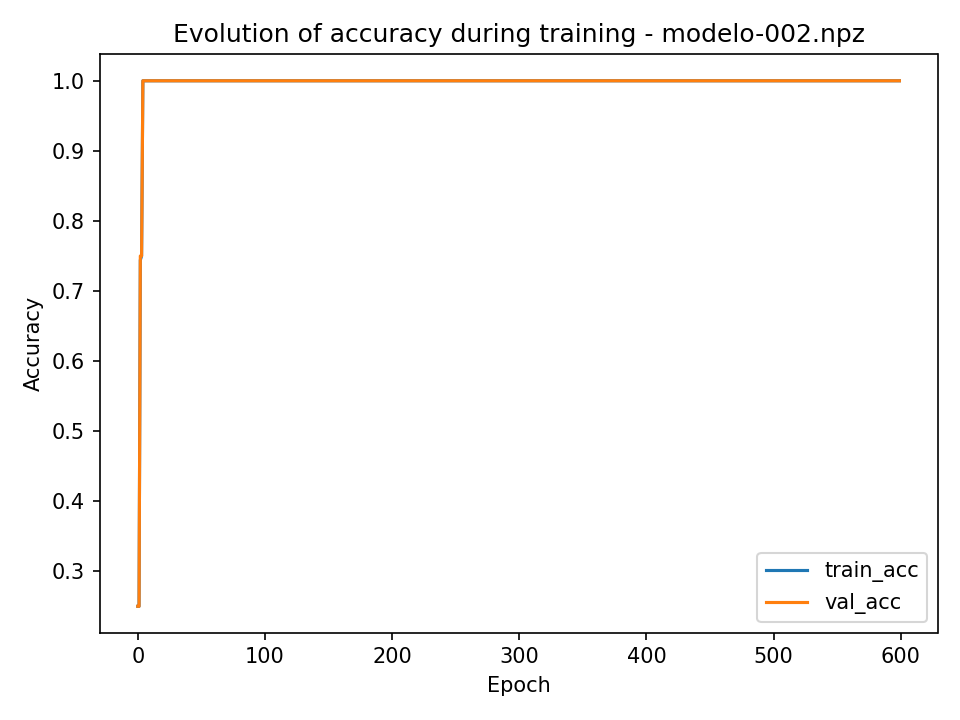
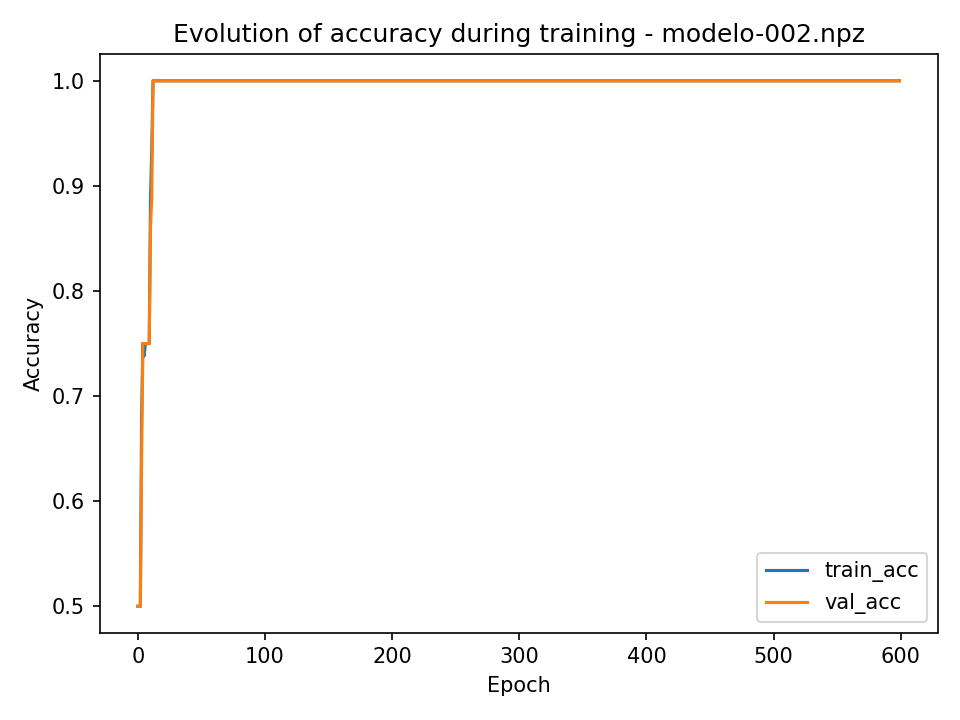
new activity

diff --git a/Actividades/Actividad6/Actividad2_practica3.py b/Actividades/Actividad6/Actividad2_practica3.py
@@ -158,7 +158,7 @@ def cross_entropy_loss(probs, y_true):
     selected = probs[np.arange(n), y_true]
     # Calcula el logaritmo de esas probabilidades y promedia el resultado.
     # Se suma un valor muy pequeño (1e-9) para evitar calcular log(0), que es infinito.
-    return np.mean(np.log(selected + 1e-9))
+    return -np.mean(np.log(selected + 1e-9))
 
 # Retropropagacion
 def backward(y_true, params, cache):
@@ -380,7 +380,8 @@ def run_experiment(experiment = {"n_hidden": 4, "lr":0.01, "epochs": 300, "seed"
         "n_hidden": experiment["n_hidden"],
         "lr": experiment["lr"],
         "val_acc": accuracy_score(y_validation, y_pred_val),
-        "val_loss": history["val_loss"][-1]
+        "val_loss": history["val_loss"][-1],
+        "confussion_matrix": confusion_matrix_np(y_validation, y_pred_val, len(class_to_index)).tolist()
     }
     print(metrics)
     # 10. Guardado del mejor modelo y prueba de inferencia en una muestra nueva
@@ -411,74 +412,27 @@ def main():
     X_validation_n = (X_validation - mean) / std
     X_test_n = (X_test - mean) / std
 
-    # 4. Pruebas rápidas de las funciones implementadas
-    # Z_demo = np.array([[-2.0,0.0,3.0]])
-    # print("reLU", relu(Z_demo))
-    # print("reLU derivative: ", relu_derivative(Z_demo))
-    # logits_demo = np.array([[2.0,1.0,0.1]])
-    # print("softmax: ", softmax(logits_demo))
-    # probs_demo = softmax(logits_demo)
-    # print("softmax demo: ", np.round(probs_demo,4) )
-    # print("sum softmax: ", probs_demo.sum(axis=1) )
-    
-    # 5. Verificación de shapes e inicialización de parámetros
-    # params_demo = initialize_parameters(n_features=4, n_hidden=8, n_classes=3, seed=42)
-    # for name, value in params_demo.items():
-    #     print(f"{name}: {value.shape}")
-
-    # # 6. Verificación de Gradientes (Gradient Checking)
-    # num, ana, diff = numerical_gradient_check(X_train_n[:10], y_train[:10], params_demo)
-    # print(f"Gradient check[0,0] -> numeric = {num:.8f}, analitic={ana:.8f}, diference={diff:.8e}")
-    
-    # 7. Entrenamiento de la red neuronal
-    # params_trained, history = train_network(
-    #     X_train_n, 
-    #     y_train, 
-    #     X_validation_n, 
-    #     y_validation,
-    #     n_hidden=8,
-    #     lr=0.03,
-    #     epochs=600, 
-    #     seed=42
-    # )
-
-    # 8. Evaluación del modelo entrenado
-    # y_pred_train, _ = predict(X_train_n, params_trained)
-    # y_pred_val, _ = predict(X_validation_n, params_trained)
-    # y_pred_test, probs_test = predict(X_test_n, params_trained)
-
-    # print("Final metrics------")
-    # print("Train accuracy: ", accuracy_score(y_train, y_pred_train))
-    # print("Validation accuracy: ", accuracy_score(y_validation, y_pred_val))
-    # print("Test accuracy: ", accuracy_score(y_test, y_pred_test))
-
-    # cm = confusion_matrix_np(y_test, y_pred_test, len(class_to_index))
-    # print("Matriz de confusion test")
-    # print("Rows = real class; columns = predicted class")
-    # print(cm)
-
-    # print("First predictions (test)")
-    # for i in range(min(10, len(y_test))):
-    #     print(
-    #         ids[test_idx[i]],
-    #         "real=",index_to_class[int(y_test[i])],
-    #         "predicted=",index_to_class[int(y_pred_test[i])],
-    #         "probs=", np.round(probs_test[i],3)
-    #     )
     # errors = error_report([ids[i] for i in test_idx], y_test, y_pred_test, probs_test, index_to_class)
     # print("Errores detectados:", len(errors))
     # for item in errors[:5]:
     #     print(item)
     
-    # 9. Experimentos guiados para encontrar buenos hiperparámetros
+    # 9. Experimentos guiados para encontrar buenos hiperparámetros (A,B,C,D)
+    #seed aleatorea para los experimentos
+    random_seed =np.random.randint(1000)
     experiments = [
-        {"n_hidden": 8, "lr":0.003, "epochs": 600, "seed": np.random.randint(1000)},
-        {"n_hidden": 8, "lr":0.03, "epochs": 600, "seed": np.random.randint(1000)},
-        {"n_hidden": 8, "lr":0.3, "epochs": 600, "seed": np.random.randint(1000)},
-        {"n_hidden": 16, "lr":0.03, "epochs": 600, "seed": np.random.randint(1000)},
+        {"n_hidden": 8, "lr":0.003, "epochs": 600, "seed": random_seed},
+        {"n_hidden": 8, "lr":0.03, "epochs": 600, "seed": random_seed},
+        {"n_hidden": 8, "lr":0.3, "epochs": 600, "seed": random_seed},
+        {"n_hidden": 16, "lr":0.03, "epochs": 600, "seed": random_seed},
     ]
     results = []
     print("\n --- Experimentos guiados")
+    #Muestra aleatoria
+    random_index = np.random.randint(len(X_test))
+    X_test_to_predict = X_test[random_index]
+    y_test_to_predict = y_test[random_index]
+
     for index,experiment in enumerate(experiments):
         print("\nExperimento:")
         print(experiment)
@@ -488,18 +442,14 @@ def main():
         save_parameters(params_trained, mean, std, filename=experiment_name)
         #Cargar el modelo creado y predecir una muestra 
         params_loaded, mean_loaded, std_loaded = load_parameters(experiment_name)
-        label, prob = predict_single([ 
-                280.3399963378906,
-                21.649999618530273,
-                24.6299991607666,
-                71.16999816894531
-        ], params_loaded, mean_loaded, std_loaded)
+        #predecir la muestra aleatorea de test
+        label, prob = predict_single(X_test_to_predict, params_loaded, mean_loaded, std_loaded)
         print("\n Inferencia de muestra nueva:")
         print("Clase predicha: ", label)
         print("Probabilidades: ", np.round(prob, 4))
         # 11. Visualización de los resultados del entrenamiento
         curve_name_loss, curve_name_accuracy = plot_history(history,experiment_name)
-
+        #guardar los registros del experimento, imagenes de graficas, modelos y los resultados de la prediccion contra lo real
         results.append({
             "metrics":metrics,
             "filename":experiment_name, 
@@ -507,6 +457,7 @@ def main():
             "curve_name_loss_image":curve_name_loss, 
             "curve_name_accuracy_image":curve_name_accuracy,
             "predicted_label":label,
+            "real_label":index_to_class[int(y_test_to_predict)],
             "probabilities":np.round(prob, 4).tolist()
         })
     #resumen de resultados (guardar experimentos y ubicaciones de los modelos en un json)
